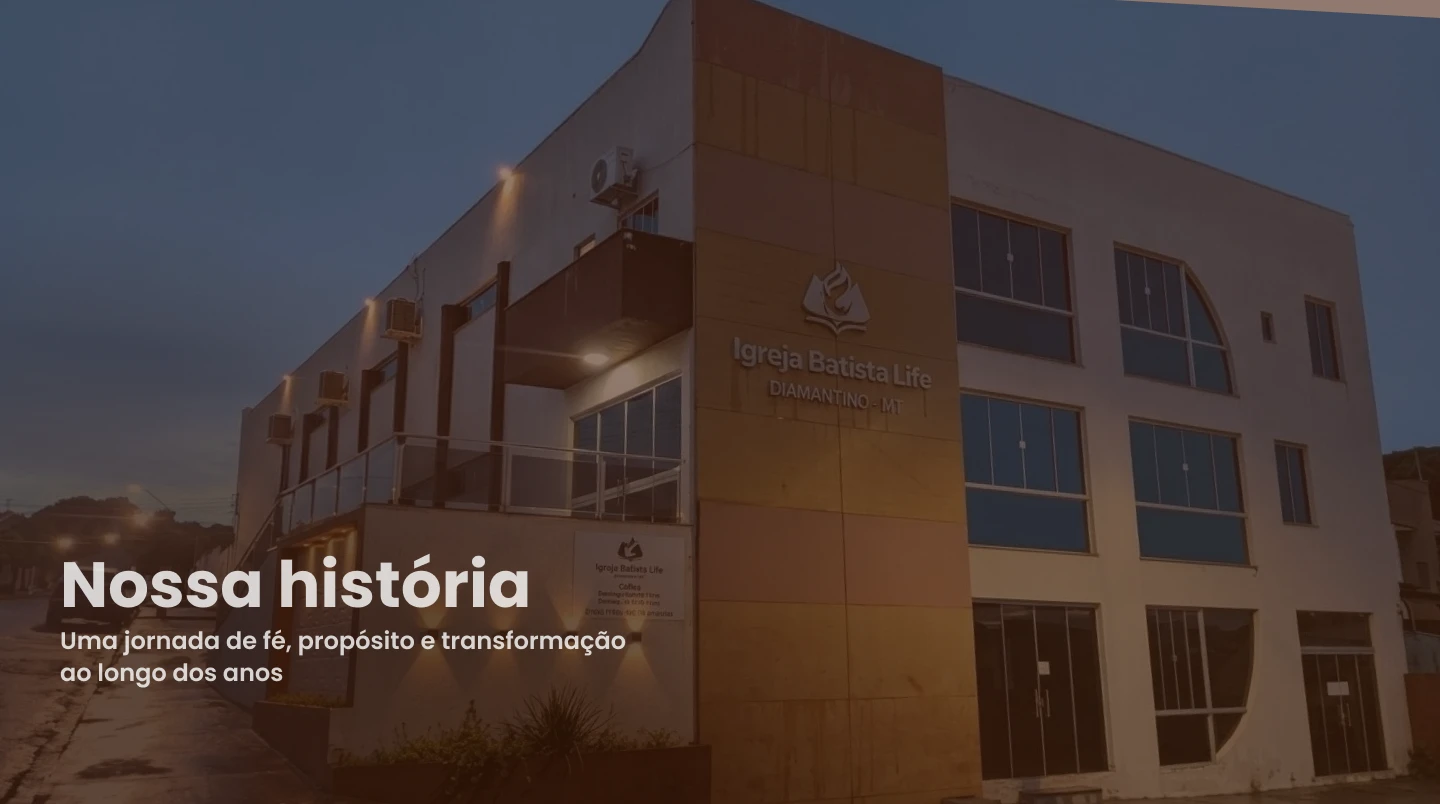
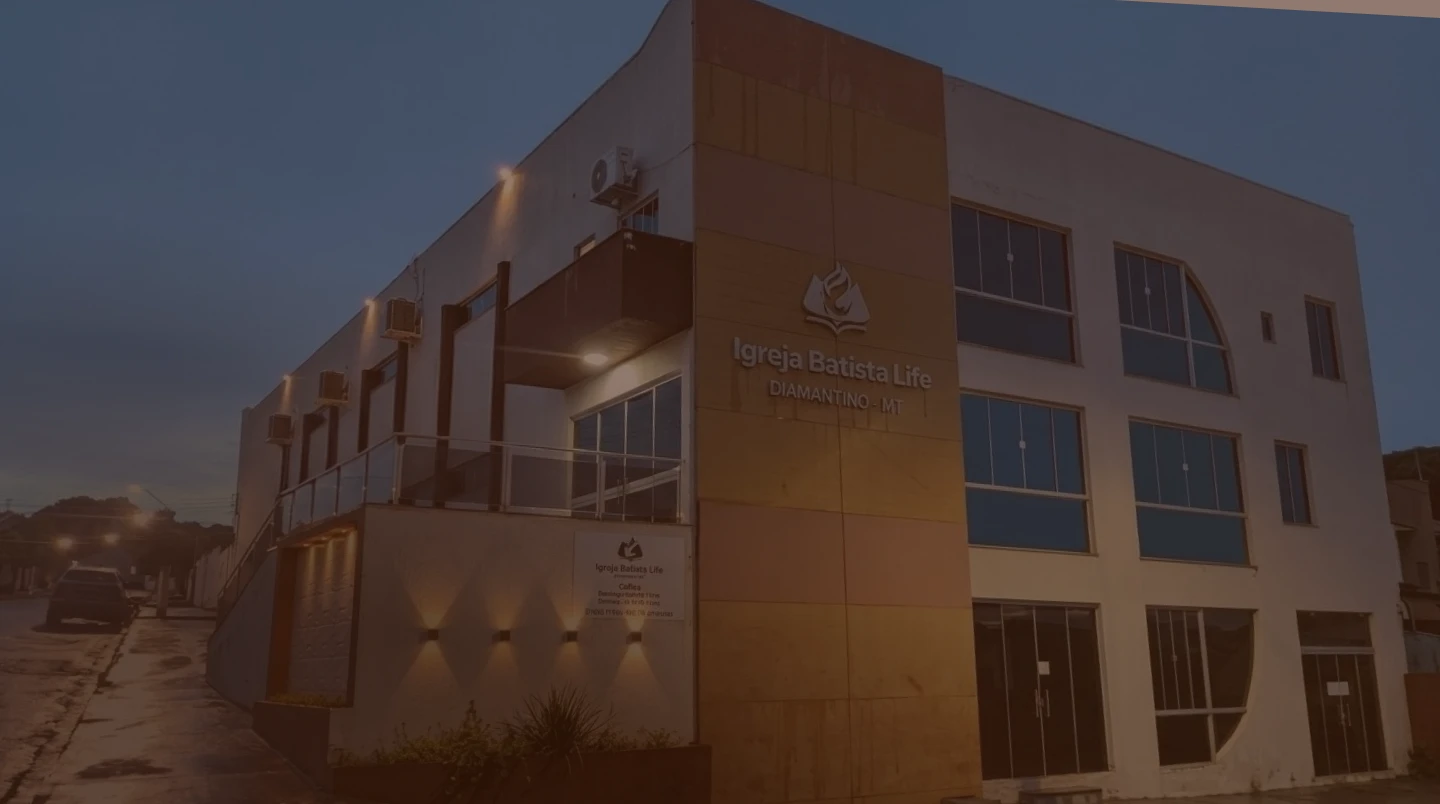
pagina de historia pronta

Changed region(s): [[0.0312, 0.6841, 0.4375, 0.8706]]

diff --git a/src/containers/About/index.jsx b/src/containers/About/index.jsx
@@ -1,6 +1,6 @@
 import { useState, useEffect } from "react"
 
-import { Container, Box, Fundamentals, ContainerButtons } from "./style"
+import { Container, Box, Fundamentals, ContainerButtons, ContactSection, BoxImage } from "./style"
 
 import { Button } from "../../components/Button"
 import { ModalContact } from "../../components/ModalContact"
@@ -16,12 +16,12 @@ function About() {
         <Container>
             <Box>
                 <BackgroundImageFull $variant="quaternary">
-                    <div>
-                        <div>
+                    <BoxImage>
+                        <div className="content">
                             <h2>Nossa história</h2>
                             <p>Uma jornada de fé, propósito e transformação ao longo dos anos</p>
                         </div>
-                    </div>
+                    </BoxImage>
                 </BackgroundImageFull>
 
                 <Fundamentals>
@@ -34,10 +34,10 @@ function About() {
                     <CardsPastors />
                 </section>
 
-                <section>
-                    <div>
+                <ContactSection>
+                    <div className="contact-content">
                         <h2>Queremos te conhecer pessoalmente!</h2>
-                        <p>Não importa onde você está em sua jornada de fé, há um logar reservado para você em nossa mesa.</p>
+                        <p>Não importa onde você está em sua jornada de fé, há um lugar reservado para você em nossa mesa.</p>
                     </div>
                     <ContainerButtons>
                         <a href="https://maps.app.goo.gl/doB8Zy2G1as89AMP7" target="_blank" rel="noreferrer">
@@ -47,7 +47,7 @@ function About() {
                         </a>
                         <Button $variant="secondary" onClick={() => setIsOpen(true)}>Falar com um Pastor</Button>
                     </ContainerButtons>
-                </section>
+                </ContactSection>
             </Box>
             <ModalContact isOpen={isOpen} setIsOpen={() => setIsOpen(false)}>
                 <CardsContacts />

diff --git a/src/components/CardsPastors/index.jsx b/src/components/CardsPastors/index.jsx
@@ -1,33 +1,41 @@
+import { Container, Card, Image, Content } from "./style.js"
+
+import Pastor1 from "../../assets/Pastor1.webp"
+import Pastor2 from "../../assets/Pastor2.webp"
+import Pastor3 from "../../assets/Pastor3.webp"
+
 export function CardsPastors() {
     return (
-        <div>
-            <div>
-                <div>
-                    
-                </div>
-                <div>
-                    <h3></h3>
-                    <p></p>
-                </div>
-            </div>
-            <div>
-                <div>
+        <Container>
+            <Card>
+                <Image>
+                    <img src={Pastor1} alt="" />
+                </Image>
+                <Content>
+                    <h3>Pr. Francisco</h3>
+                    <p>Pastor do Prédio Centro</p>
+                </Content>
+            </Card>
 
-                </div>
-                <div>
-                    <h3></h3>
-                    <p></p>
-                </div>
-            </div>
-            <div>
-                <div>
+            <Card>
+                <Image>
+                    <img src={Pastor2} alt="" />
+                </Image>
+                <Content>
+                    <h3>Pr. Pedro</h3>
+                    <p>Pastor do Prédio Novo Diamantino</p>
+                </Content>
+            </Card>
 
-                </div>
-                <div>
-                    <h3></h3>
-                    <p></p>
-                </div>
-            </div>
-        </div>
+            <Card>
+                <Image>
+                    <img src={Pastor3} alt="" />
+                </Image>
+                <Content>
+                    <h3>Pr. Joemilson</h3>
+                    <p>Pastor do Prédio Borjuí</p>
+                </Content>
+            </Card>
+        </Container>
     )
 }

diff --git a/src/containers/About/style.js b/src/containers/About/style.js
@@ -18,6 +18,29 @@ export const Box = styled.div`
     gap: 10.25rem;
 `
 
+export const BoxImage = styled.div`
+    display: flex;
+    align-items: end;
+    justify-content: start;
+    padding: 38rem 0 10rem 6rem;
+    height: 100vh;
+    width: 100%;
+    gap: 2rem;
+    
+    h2{
+        color: var(--white);
+        font-size: 4rem;
+        font-weight: 700;
+    }
+
+    p{
+        color: var(--white);
+        font-size: 1.5rem;
+        font-weight: 600;
+        max-width: 584px;
+    }
+`
+
 export const Fundamentals = styled.div`
     padding: 6rem 3rem;
     width: 100vw;
@@ -36,13 +59,50 @@ export const Fundamentals = styled.div`
     }
 `
 
-export const ContainerButtons = styled.div`
+export const ContactSection = styled.section`
+    background-color: var(--primary-color);
+    width: 100vw;
     display: flex;
-    gap: 1rem;
     justify-content: center;
     align-items: center;
+    flex-direction: column;
+    border-bottom: solid 2px var(--secondary-color);
+    padding: 8rem 0;
+    gap: 3rem;
 
-    @media (max-width: 768px) {
+    .contact-content{
+        display: flex;
         flex-direction: column;
+        align-items: center;
+        gap: 3rem;
     }
+
+    h2{
+        color: var(--white);
+        font-size: 2.5rem;
+        font-weight: 700;
+        text-align: center;
+        max-width: 480px;
+    }
+
+    p{
+        color: var(--styled-font-color);
+        font-size: 1.5rem;
+        font-weight: 600;
+        max-width: 742px;
+        text-align: center;
+    }
+`
+
+export const ContainerButtons = styled.div`
+    display: grid;
+    grid-template-columns: repeat(2, 1fr);
+    justify-content: center;
+    align-items: center;
+    gap: 1rem;
+    max-width: 50%;
+
+    /* @media (max-width: 768px) {
+        grid-template-columns: 1fr;
+    } */
 `

diff --git a/src/components/BackgroundImageFull/style.js b/src/components/BackgroundImageFull/style.js
@@ -6,6 +6,12 @@ import HeroEventsBackground from "../../assets/image-hero-events.webp"
 import HeroAboutBackground from "../../assets/image-hero-about.webp"
 
 export const Background = styled.div`
+    background: ${(props) => {
+            if (props.$variant === 'secondary') return `url(${HeroContribuitionsBackground})`;
+            if (props.$variant === 'tertiary') return `url(${HeroEventsBackground})`;
+            if (props.$variant === 'quaternary') return `url(${HeroAboutBackground})`;
+            return `url(${HeroBackground})`; 
+        }};
     background-repeat: no-repeat;
     background-position: center;
     background-size: cover;
@@ -17,12 +23,4 @@ export const Background = styled.div`
     justify-content: center;
     margin-top: 3rem;
     width: 100vw;
-    height: 100%;
-    height: auto;
-    background: ${(props) => {
-        if (props.$variant === 'secondary') return `url(${HeroContribuitionsBackground})`;
-        if (props.$variant === 'tertiary') return `url(${HeroEventsBackground})`;
-        if (props.$variant === 'quaternary') return `url(${HeroAboutBackground})`;
-        return `url(${HeroBackground})`; 
-    }};
 `

diff --git a/src/components/CardsPastors/style.js b/src/components/CardsPastors/style.js
@@ -1,0 +1,53 @@
+import styled from "styled-components";
+
+export const Container = styled.div`
+    display: flex;
+    align-items: center;
+    justify-content: center;
+    width: 100%;
+    max-width: 1320px;
+    padding: 4rem 0;
+    gap: 3.5rem;
+`
+
+export const Card = styled.div`
+    display: flex;
+    flex-direction: column;
+    align-items: center;
+    justify-content: center;
+    gap: 1rem;
+    width: 80%;
+    max-width: 400px;
+    border-radius: 1.75rem;
+    background-color: var(--white);
+`
+
+export const Image = styled.div`
+    width: 100%;
+    max-width: 400px;
+    max-height: 400px;
+    border: 175rem;
+
+    img{
+        width: 100%;
+        border-radius: 1.75rem;
+    }
+`
+
+export const Content = styled.div`
+    display: flex;
+    flex-direction: column;
+    align-items: center;
+    padding: 0 0 2rem 0;
+
+    h3{
+        font-size: 1.25rem;
+        font-weight: 600;
+    }
+
+    p{
+        font-size: 1rem;
+        font-weight: 600;
+        color: var(--secondary-color);
+    }
+`

diff --git a/src/components/Footer/index.jsx b/src/components/Footer/index.jsx
@@ -1,4 +1,4 @@
-import { LinkHeader, FooterContainer, FooterBox, Copyright, FooterContent, Navigation, Visual, Local } from "./styles.js";
+import { LinkHeader, FooterContainer, FooterBox, Copyright, FooterContent, Navigation, Visual, Local } from "./style.js";
 
 import Logo from "../../assets/logos/logoFooter.svg";
 import Whatsapp from "../../assets/icon/whatsapp.svg";
